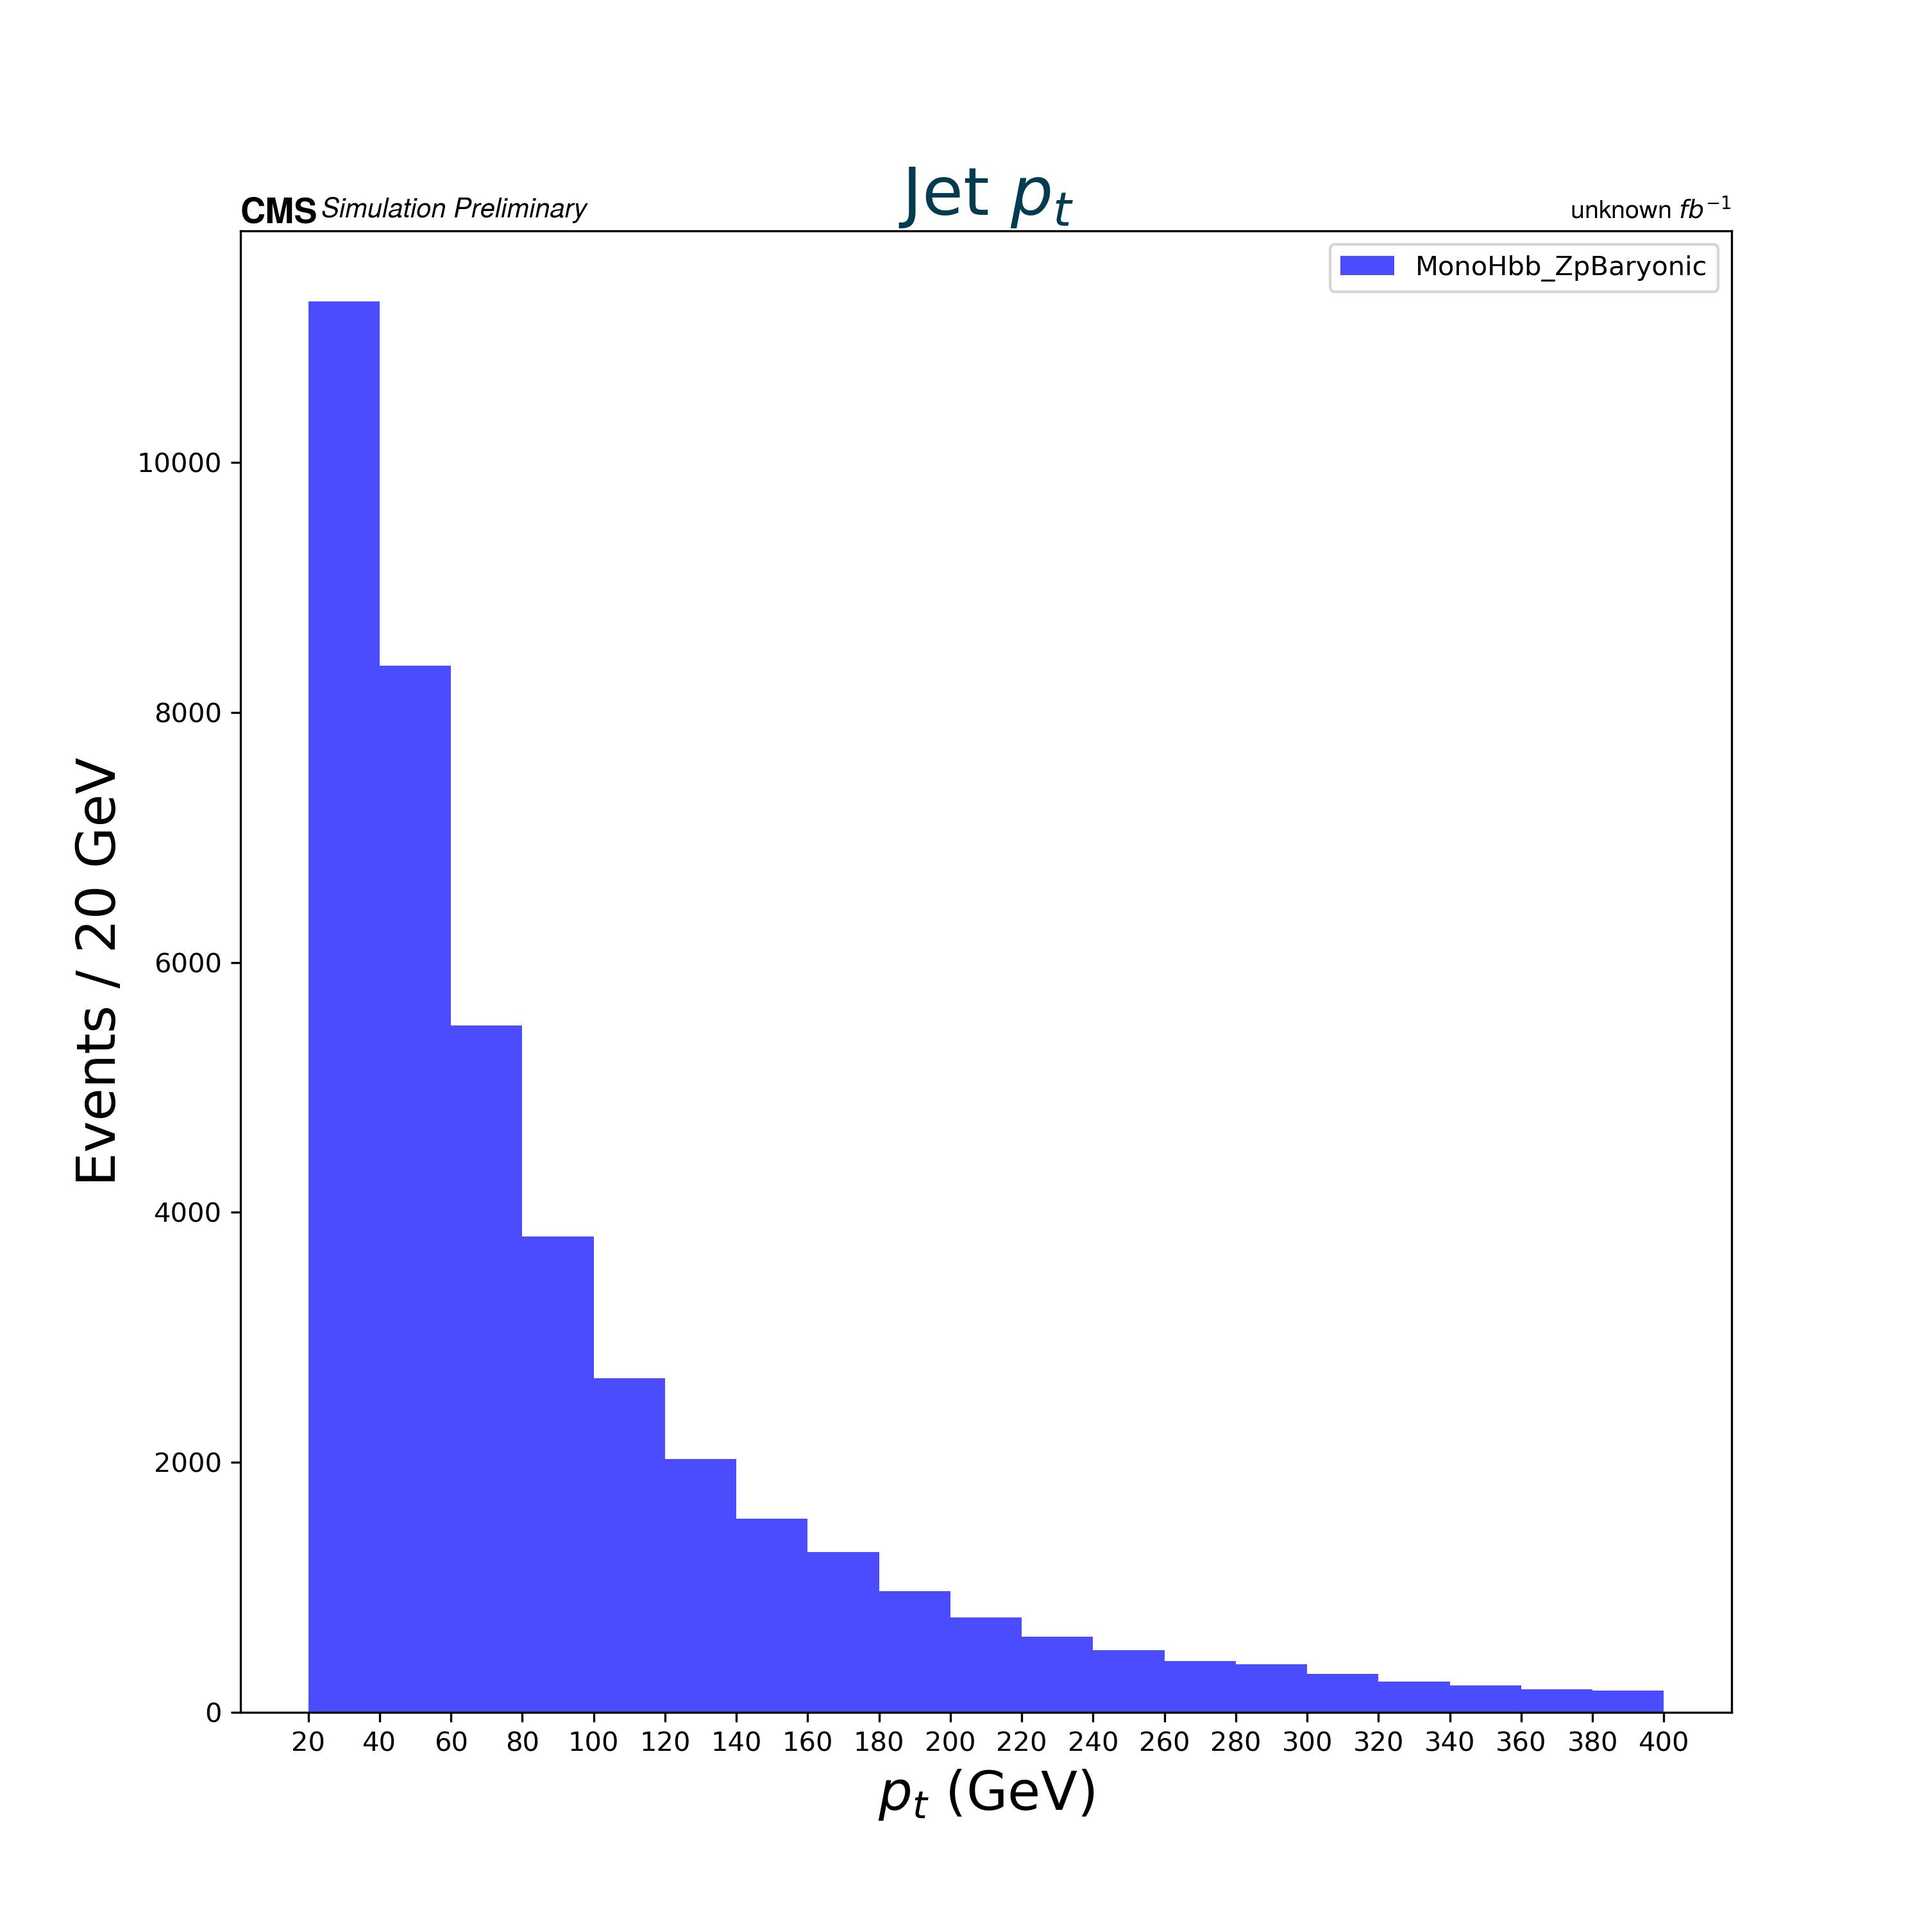
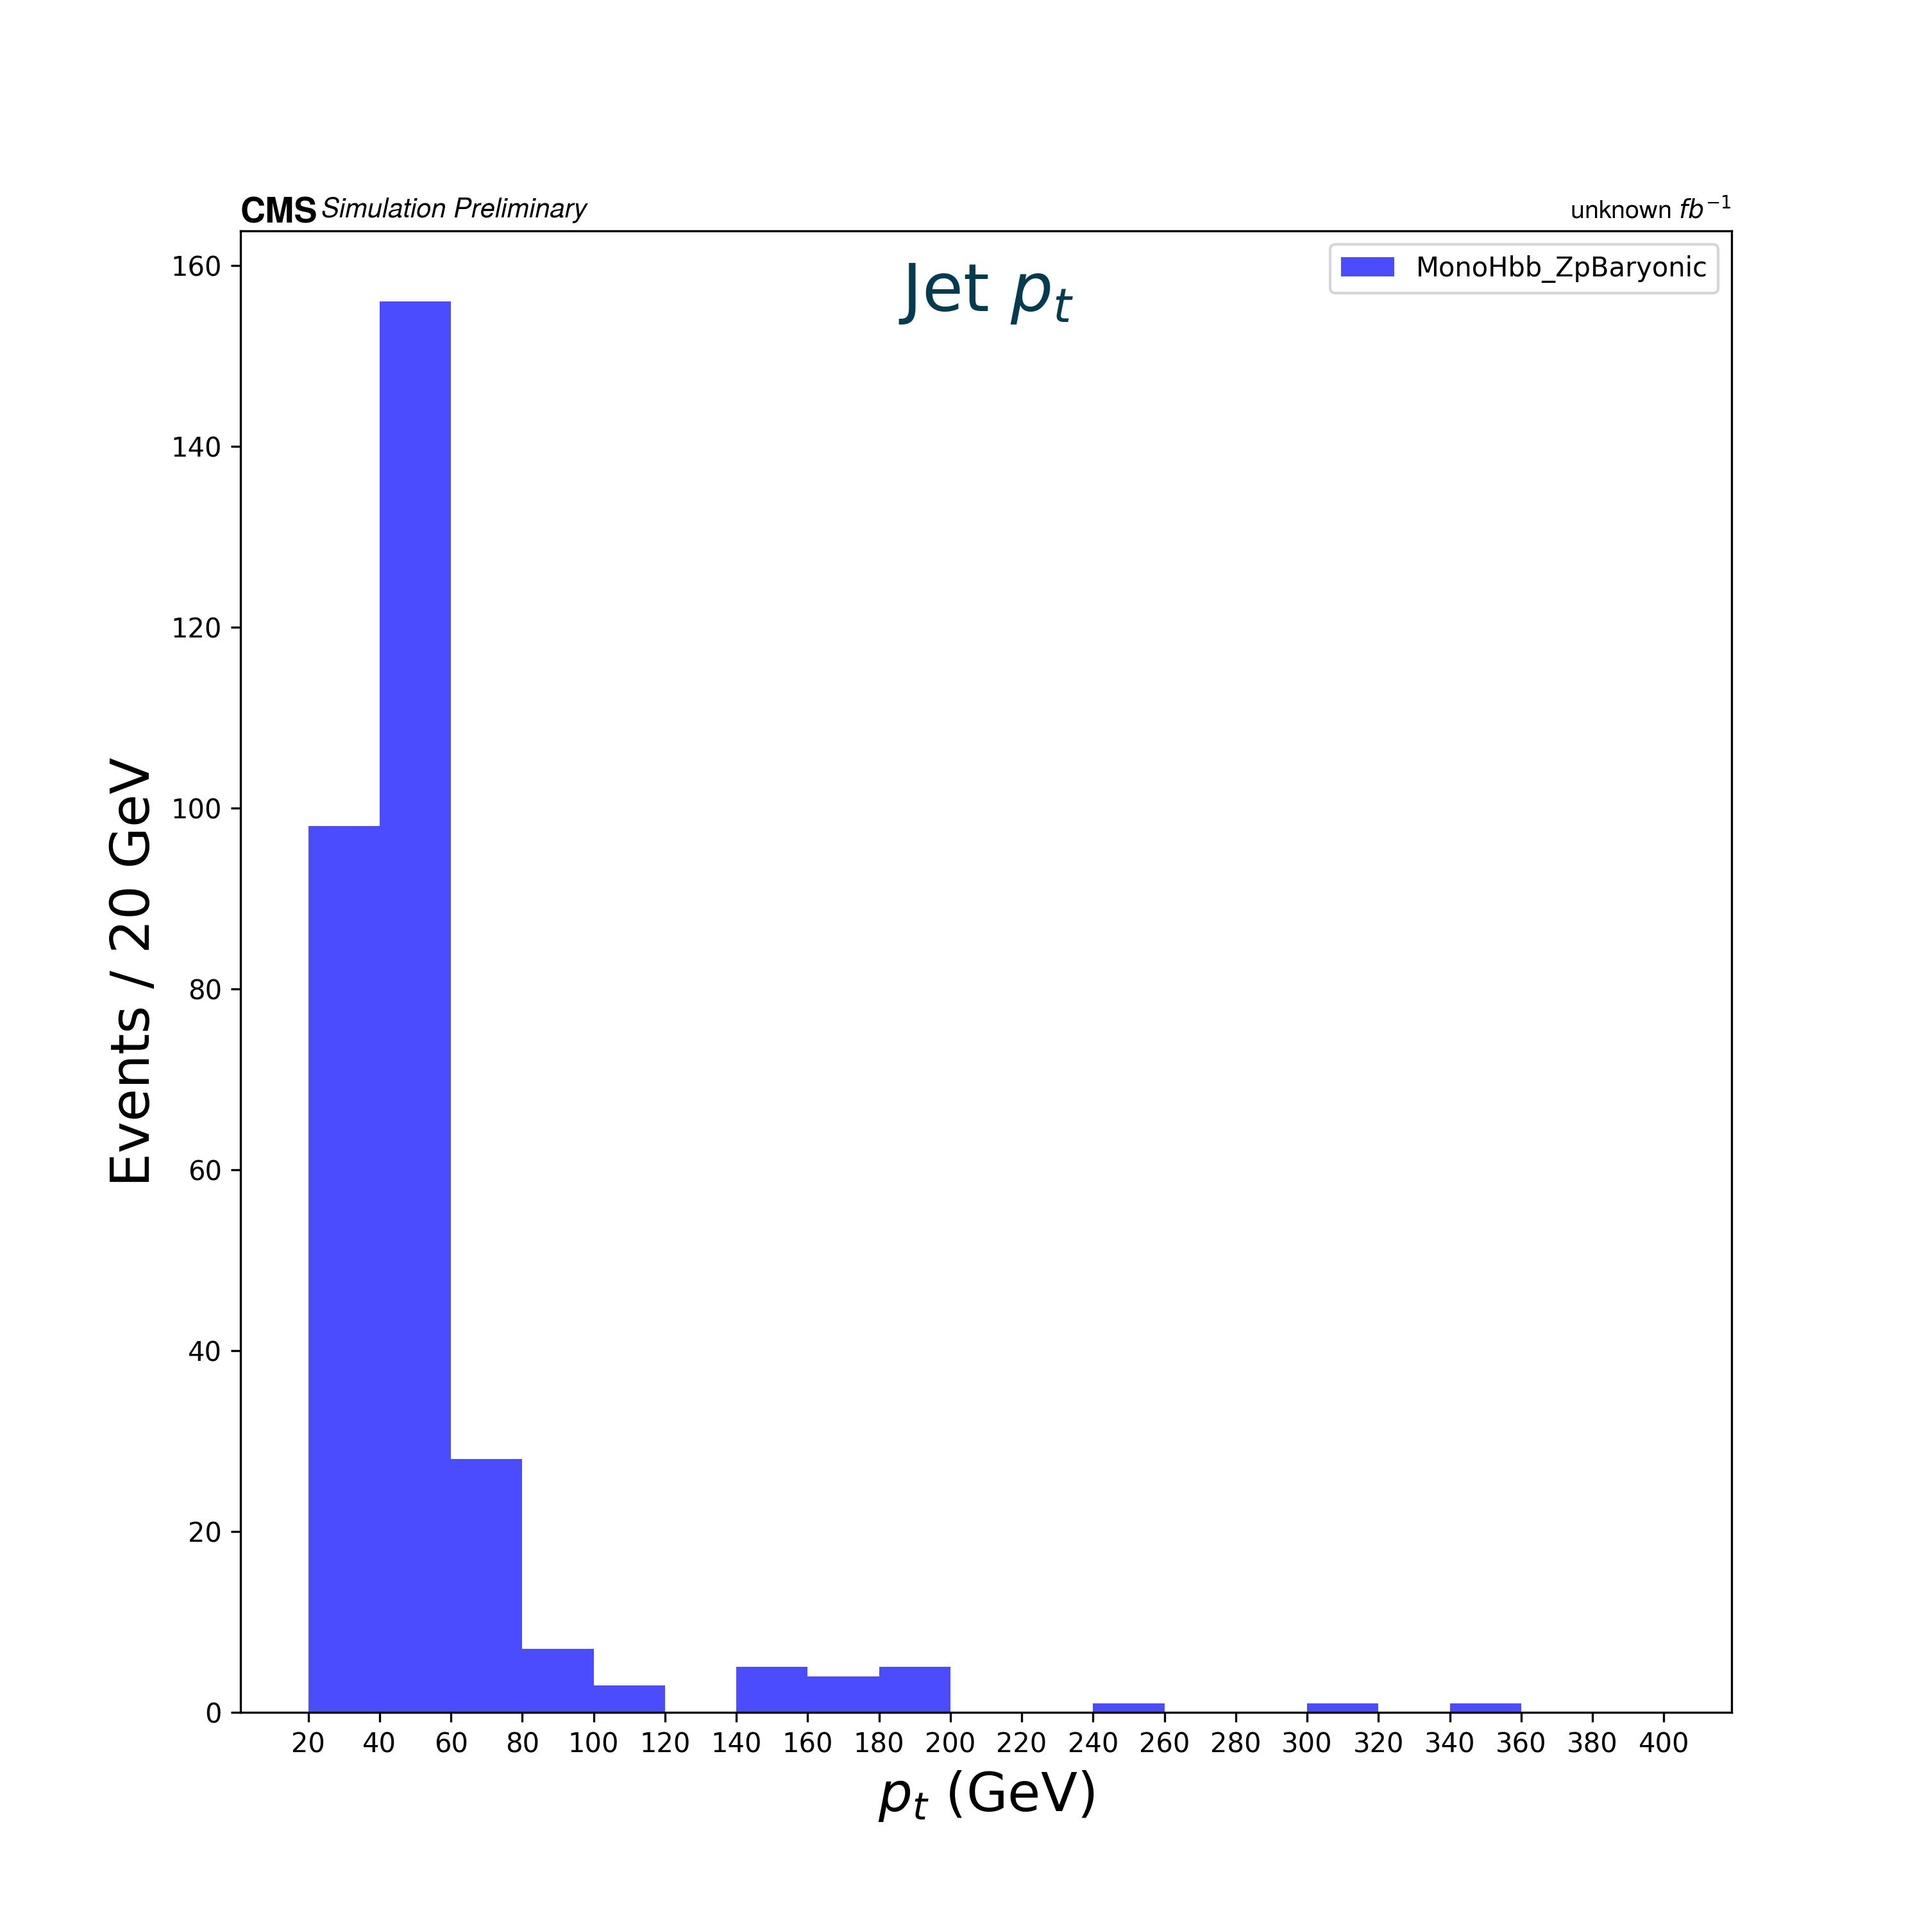
Quick Commit

diff --git a/JetKinem.py b/JetKinem.py
@@ -56,7 +56,7 @@ hep.histplot(JetHist["btagDeepFlavB",:],
              label=r"btagDeepFlavB",
              ax=ax
             )
-ax.set_title("Jet $p_t$", fontsize=25, color="#053B50")
+ax.set_title("Jet $p_t$", y=1.0, pad = -30 , fontsize=25, color="#053B50")
 ax.set_xlabel("$p_t$ (GeV)", fontsize=20)
 ax.set_ylabel(f"Events / {bin_size} GeV", fontsize=20)
 ax.set_xticks(np.arange(x_min,x_max+bin_size,bin_size*10))
